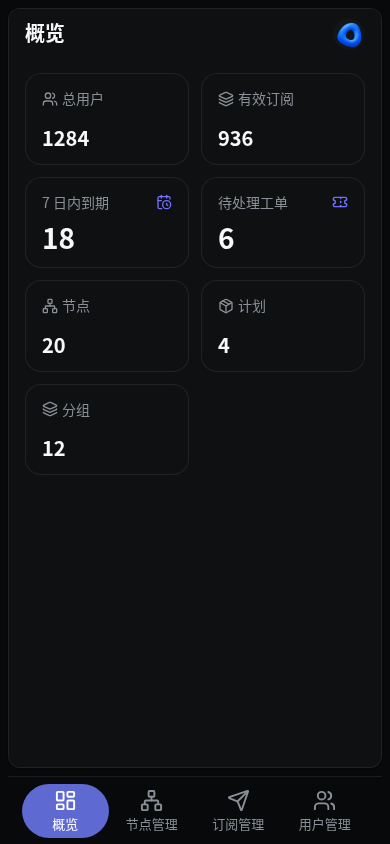
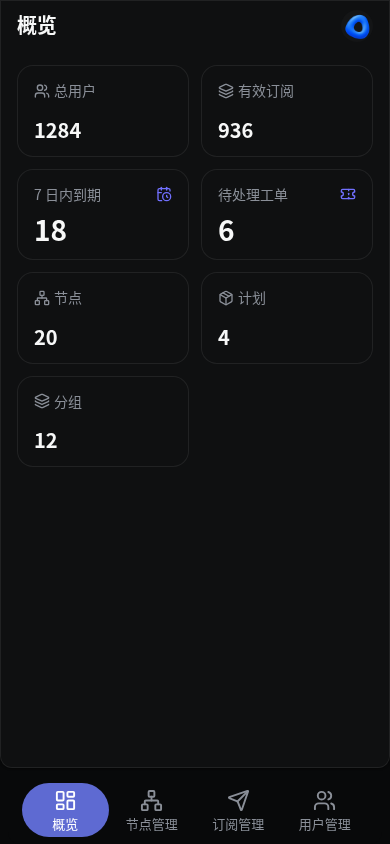
Make the inset mobile panel full bleed on three sides

diff --git a/src/styles/app.css b/src/styles/app.css
@@ -395,32 +395,6 @@ tbody tr:last-child td { border-bottom: 0; }
     box-shadow: 0 8px 24px rgb(0 0 0 / 0.12), 0 2px 6px rgb(0 0 0 / 0.06);
     backdrop-filter: blur(18px);
   }
-  .app-layout[data-mobile-bar="inset"] {
-    display: grid;
-    height: 100dvh;
-    grid-template-columns: minmax(0, 1fr);
-    grid-template-rows: minmax(0, 1fr) auto;
-  }
-  .app-layout[data-mobile-bar="inset"] .workspace {
-    height: auto;
-    align-self: stretch;
-  }
-  .app-layout[data-mobile-bar="inset"] :is(.dock, .admin-mobile-dock) {
-    position: static;
-    height: calc(var(--mobile-bar-height) + var(--mobile-bar-safe-bottom));
-    margin-inline: var(--space-2);
-    padding: 6px max(14px, env(safe-area-inset-right, 0px)) calc(6px + var(--mobile-bar-safe-bottom)) max(14px, env(safe-area-inset-left, 0px));
-    border: 0;
-    border-top: 1px solid var(--color-border);
-    border-radius: 0 0 var(--radius-sheet) var(--radius-sheet);
-    background: var(--color-canvas);
-    box-shadow: none;
-    backdrop-filter: none;
-  }
-  .dock-item { display: flex; flex: 1 1 0; flex-direction: column; align-items: center; justify-content: center; gap: 5px; min-width: 0; height: 54px; padding: 0; border: 0; border-radius: 999px; background: transparent; color: var(--color-text-muted); cursor: pointer; font-size: 13px; font-weight: var(--weight-medium); line-height: 1.15; text-align: center; }
-  .dock-item svg { flex: 0 0 auto; width: 23px; height: 23px; }
-  .dock-item span { display: block; overflow: visible; max-width: 100%; font-size: 13px; line-height: 1.15; white-space: nowrap; }
-  .dock-item.active { background: #5e6ad2; color: #fff; font-weight: var(--weight-medium); }
   .dock-backdrop { display: block; position: fixed; inset: 0; z-index: var(--z-overlay); border: 0; background: var(--color-overlay); }
   .dock-sheet { display: grid; padding: 8px 10px 14px; position: fixed; right: 8px; bottom: 0; left: 8px; z-index: var(--z-sidebar); gap: 6px; border: 1px solid var(--color-border); border-bottom: 0; border-radius: var(--radius-sheet) var(--radius-sheet) 0 0; background: var(--color-surface-raised); box-shadow: var(--shadow-float); outline: none; touch-action: pan-y; }
   .dock-sheet-handle { width: 36px; height: 4px; margin: 2px auto 8px; border-radius: var(--radius-pill); background: var(--color-border-strong); }
@@ -432,10 +406,6 @@ tbody tr:last-child td { border-bottom: 0; }
   .dock-sheet-account strong, .dock-sheet-account span { overflow: hidden; text-overflow: ellipsis; white-space: nowrap; }
   .dock-sheet-account span { color: var(--color-text-muted); font-size: var(--font-xs); }
   .dock-sheet-account .icon-button { width: 40px; height: 40px; margin-left: auto; }
-  .admin-mobile-dock-item { display: flex; flex: 1 1 0; flex-direction: column; align-items: center; justify-content: center; gap: 5px; min-width: 0; height: 54px; padding: 0; border-radius: 999px; background: transparent; color: var(--color-text-muted); font-size: 13px; font-weight: var(--weight-medium); line-height: 1.15; text-align: center; }
-  .admin-mobile-dock-item.active { background: #5e6ad2; color: #fff; }
-  .admin-mobile-dock-item svg { flex: 0 0 auto; width: 23px; height: 23px; }
-  .admin-mobile-dock-item span { display: block; max-width: 100%; overflow: visible; font-size: 13px; line-height: 1.15; white-space: nowrap; }
   .page-stack { gap: 10px; }
   .split-heading { display: grid; min-height: 0; grid-template-columns: minmax(0,1fr); align-items: stretch; gap: 10px; }
   .split-heading > .button, .split-heading > .invite-form, .split-heading > .compact-field { width: 100%; min-width: 0; }
@@ -502,3 +472,59 @@ tbody tr:last-child td { border-bottom: 0; }
 .key-value-rows dt { color: var(--color-text-muted); }
 .key-value-rows dd { margin: 0; overflow-wrap: anywhere; }
 .data-section .empty-state { border: 0; background: transparent; }
+
+@media (width < 768px) {
+  .app-layout[data-mobile-bar="inset"] {
+    --mobile-bar-height: 68px;
+    --mobile-bar-safe-top: env(safe-area-inset-top, 0px);
+    --mobile-bar-safe-bottom: env(safe-area-inset-bottom, 0px);
+    display: grid;
+    height: 100dvh;
+    grid-template-columns: minmax(0, 1fr);
+    grid-template-rows: minmax(0, 1fr) auto;
+  }
+  .app-layout[data-mobile-bar="inset"] .workspace {
+    height: auto;
+    align-self: stretch;
+    margin: 0 0 var(--space-2);
+    border-radius: 0 0 var(--radius-sheet) var(--radius-sheet);
+  }
+  .app-layout[data-mobile-bar="inset"] .workspace-topbar {
+    height: calc(var(--size-topbar) + var(--mobile-bar-safe-top));
+    padding-top: var(--mobile-bar-safe-top);
+  }
+  .app-layout[data-mobile-bar="inset"] :is(.dock, .admin-mobile-dock) {
+    display: flex;
+    align-items: center;
+    position: static;
+    height: calc(var(--mobile-bar-height) + var(--mobile-bar-safe-bottom));
+    margin-inline: var(--space-2);
+    padding: 6px max(14px, env(safe-area-inset-right, 0px)) calc(6px + var(--mobile-bar-safe-bottom)) max(14px, env(safe-area-inset-left, 0px));
+    border: 0;
+    border-radius: 0 0 var(--radius-sheet) var(--radius-sheet);
+    background: var(--color-canvas);
+    box-shadow: none;
+    backdrop-filter: none;
+  }
+  .dock-item { display: flex; flex: 1 1 0; flex-direction: column; align-items: center; justify-content: center; gap: 5px; min-width: 0; height: 54px; padding: 0; border: 0; border-radius: 999px; background: transparent; color: var(--color-text-muted); cursor: pointer; font-size: 13px; font-weight: var(--weight-medium); line-height: 1.15; text-align: center; }
+  .dock-item svg { flex: 0 0 auto; width: 23px; height: 23px; }
+  .dock-item span { display: block; overflow: visible; max-width: 100%; font-size: 13px; line-height: 1.15; white-space: nowrap; }
+  .dock-item.active { background: #5e6ad2; color: #fff; font-weight: var(--weight-medium); }
+  .admin-mobile-dock-item { display: flex; flex: 1 1 0; flex-direction: column; align-items: center; justify-content: center; gap: 5px; min-width: 0; height: 54px; padding: 0; border-radius: 999px; background: transparent; color: var(--color-text-muted); font-size: 13px; font-weight: var(--weight-medium); line-height: 1.15; text-align: center; }
+  .admin-mobile-dock-item.active { background: #5e6ad2; color: #fff; }
+  .admin-mobile-dock-item svg { flex: 0 0 auto; width: 23px; height: 23px; }
+  .admin-mobile-dock-item span { display: block; max-width: 100%; overflow: visible; font-size: 13px; line-height: 1.15; white-space: nowrap; }
+}
+
+/* Apply the inset shell through 767px while preserving the floating breakpoint. */
+@media (760px < width < 768px) {
+  #root .app-layout[data-mobile-bar="inset"] {
+    grid-template-columns: minmax(0, 1fr);
+    grid-template-rows: minmax(0, 1fr) auto;
+  }
+  .app-layout[data-mobile-bar="inset"] :is(.sidebar, .admin-desktop-topbar, .sidebar-toggle) { display: none; }
+  .app-layout[data-mobile-bar="inset"] .workspace { border: 1px solid var(--color-border); box-shadow: var(--shadow-shell); }
+  .app-layout[data-mobile-bar="inset"] .topbar-account { display: block; margin-left: auto; }
+  .app-layout[data-mobile-bar="inset"] .topbar-account nav { top: calc(100% + 8px); bottom: auto; left: auto; right: 0; width: 220px; }
+  .app-layout[data-mobile-bar="inset"] .mobile-bar-settings { display: grid; }
+}

diff --git a/REPORT_MOBILE_BAR_FIX3.md b/REPORT_MOBILE_BAR_FIX3.md
@@ -1,0 +1,25 @@
+# 内嵌底栏修正三验收报告
+
+分支 `task/mobile-bar-inset-fix3`，基线 `9e7fef9`。提交身份核实为 Muse <muse@outtw.com>。本地 `origin/main` 引用指向 `c87fbfed`，本次按指定的 `9e7fef9` 建立增量交付
+
+## 改动文件
+
+- `src/styles/app.css` 中，小于 768px 的内嵌模式下，面板贴紧视口上、左、右三边，两个顶角归零，保留 12px 底角和 8px 底部间隙。底栏贴底并使用窗口底色，移除顶部边框。页头使用 `safe-area-inset-top` 为内容腾出空间，底栏继续使用原有底部和横向安全区。760px 至 768px 之间仅扩展内嵌外壳，沿用原悬浮断点
+- `development/test-mobile-bar-inset.mjs` 中，更新内嵌断言，加入 767px 边界以及 1440px 双模式基线几何断言，保留对 `0ms` 和压缩后 `0s` 的兼容
+- `development/screenshots/mobile-bar-inset/` 中，更新管理端和用户端的 390px 浅色及深色内嵌截图，以及管理端 320px 浅色内嵌截图。四张悬浮截图与基线逐字节一致
+
+## 验收结果
+
+- 390px 管理端及用户端在浅色和深色下，面板坐标左、上为 0，右边等于视口宽度，两个顶角均为 0。两个底角保持 12px，面板与底栏之间保留 8px 间隙
+- 内嵌底栏顶部边框为 0，背景色与 body 一致。脚本确认底栏没有生成的伪元素、额外的分割元素或阴影，且与面板是直接同级元素
+- 悬浮模式原有面板及底栏几何断言全部通过。767px 验证内嵌外壳，包含管理员收起侧栏及顶部导航布局。768px 和 1440px 双模式底栏及切换入口均隐藏，1440px 的两端面板边界及四角半径均与基线实测一致
+- 47px 顶部及 34px 底部安全区模拟通过。320px 滚到底后，末行和页脚完整可见于面板内及底栏上方。偏好键、键盘切换入口、跨角色持久化及默认悬浮断言通过
+- `npm run check` 退出码为 0。生产构建通过，Vite 仍提示主 JS chunk 大于 500 kB
+- 既有套件全绿，Worker 514、页面 227、controls 33、subscriptions 14、templates 93。使用生产静态构建运行的 Chromium 移动底栏回归通过
+
+## 未做项与交付
+
+真机及系统界面测试未执行，使用 Chromium 模拟非零安全区。未部署。业务 API、D1、订阅、权限、`api.ts` 缓存层及 `public/_headers` 均无改动。工作区已有的 `REPORT_MOBILE_BAR_INSET.md` 修改未纳入提交
+
+增量包为 `/data/tmp/mobile-bar-inset-fix3.bundle`，前置提交为 `9e7fef9`
+CODEX_MOBILE_BAR_FIX3_DONE
